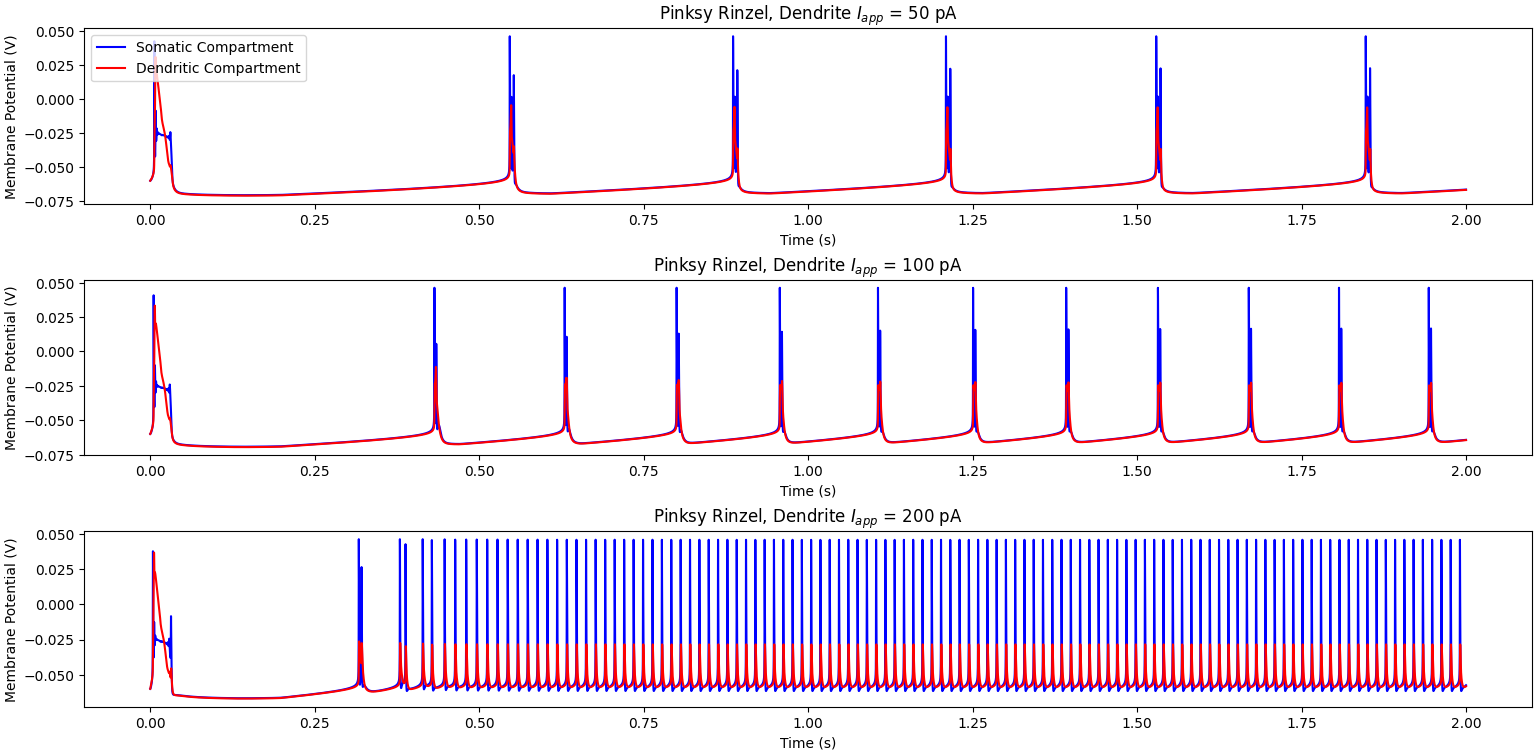
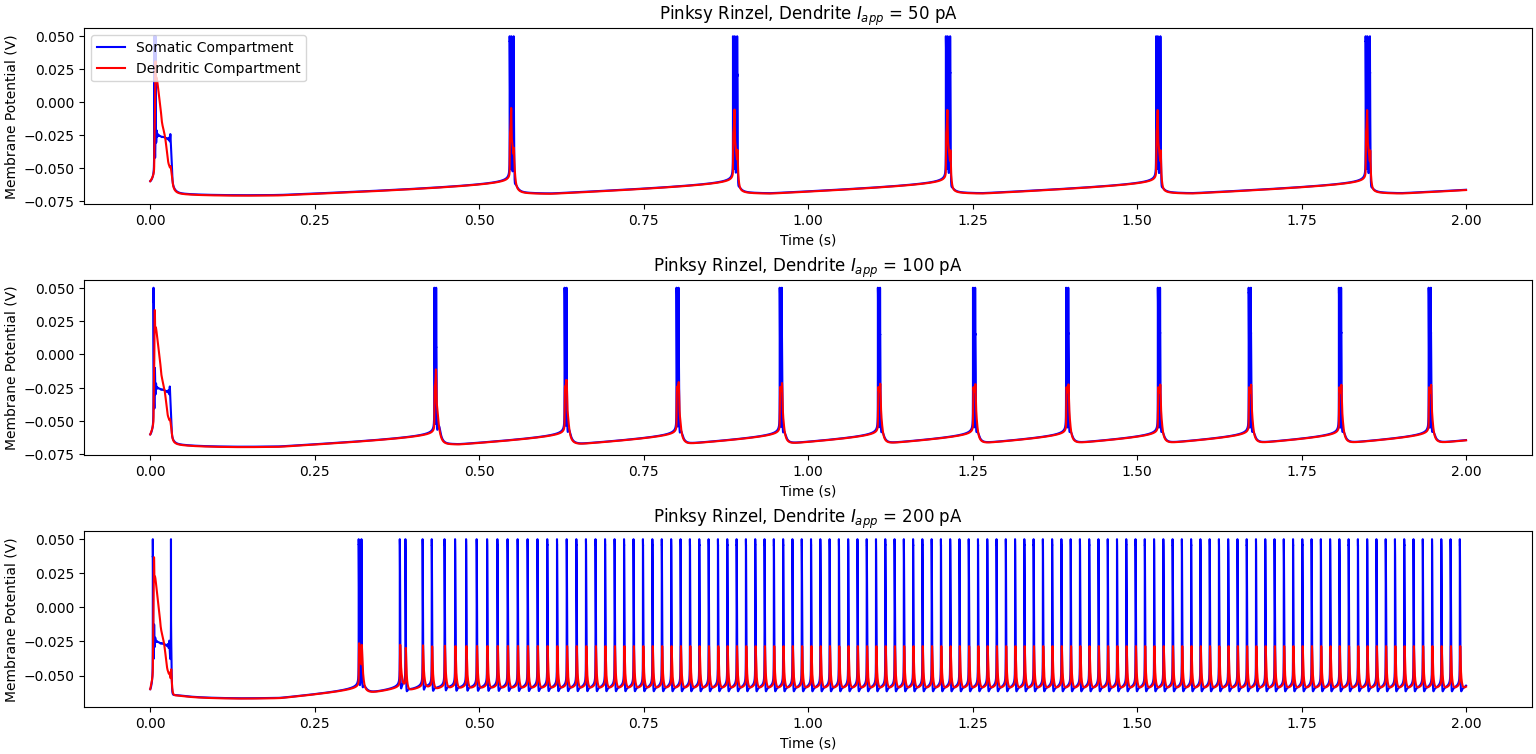
my stuff

diff --git a/Tutorial4.3/4.3.6_DendriteIapp.py b/Tutorial4.3/4.3.6_DendriteIapp.py
@@ -46,6 +46,8 @@ def PR(Isoma=0, Idendrite=0, Glink = 50e-9):
     mKAHP = np.ones(len(time)) * 0
     Ca = np.ones(len(time)) * 0 # concentration
 
+    spiketimes = []
+
     ### rate constants for gating variables ###
     def alphaM(Vs):
         return (320*10**3*(Vs+0.0469)) / (1-math.exp(-250*(Vs+0.0469)))
@@ -122,36 +124,39 @@ def PR(Isoma=0, Idendrite=0, Glink = 50e-9):
         if Vs[i] < -30e-3:
             canSpike = True
         if Vs[i] > -10e-3 and canSpike:
-            print("spiked", time[i])
+            spiketimes.append(i)
             canSpike = False
     
+    for i in spiketimes:
+        Vs[i] = 50e-3
+
     return time, Vs, Vd
 
 plt.figure(layout = 'constrained')
 
-time, Vs, Vd = PR(Isoma=50e-12)
+time, Vs, Vd = PR(Idendrite =50e-12)
 plt.subplot(311)
 plt.plot(time, Vs, 'b-', label = "Somatic Compartment")
 plt.plot(time, Vd, 'r-',label = 'Dendritic Compartment')
 plt.ylabel('Membrane Potential (V)')
 plt.xlabel('Time (s)')
-plt.title("Pinksy Rinzel, Soma $I_{app}$ = 50 pA")
+plt.title("Pinksy Rinzel, Dendrite $I_{app}$ = 50 pA")
 plt.legend(loc = 'upper left')
 
-time, Vs, Vd = PR(Isoma = 100e-12)
+time, Vs, Vd = PR(Idendrite = 100e-12)
 plt.subplot(312)
 plt.plot(time, Vs, 'b-', label = "Somatic Compartment")
 plt.plot(time, Vd, 'r-',label = 'Dendritic Compartment')
 plt.ylabel('Membrane Potential (V)')
 plt.xlabel('Time (s)')
-plt.title("Pinksy Rinzel, Soma $I_{app}$ = 100 pA")
+plt.title("Pinksy Rinzel, Dendrite $I_{app}$ = 100 pA")
 
-time, Vs, Vd = PR(Isoma = 200e-12)
+time, Vs, Vd = PR(Idendrite = 200e-12)
 plt.subplot(313)
 plt.plot(time, Vs, 'b-', label = "Somatic Compartment")
 plt.plot(time, Vd, 'r-',label = 'Dendritic Compartment')
 plt.ylabel('Membrane Potential (V)')
 plt.xlabel('Time (s)')
-plt.title("Pinksy Rinzel, Soma $I_{app}$ = 200 pA")
+plt.title("Pinksy Rinzel, Dendrite $I_{app}$ = 200 pA")
 
 plt.show()

diff --git a/Tutorial4.3/4.3.6_SomaIApp.py b/Tutorial4.3/4.3.6_SomaIApp.py
@@ -46,6 +46,8 @@ def PR(Isoma=0, Idendrite=0, Glink = 50e-9):
     mKAHP = np.ones(len(time)) * 0
     Ca = np.ones(len(time)) * 0 # concentration
 
+    spiketimes = []
+
     ### rate constants for gating variables ###
     def alphaM(Vs):
         return (320*10**3*(Vs+0.0469)) / (1-math.exp(-250*(Vs+0.0469)))
@@ -122,9 +124,12 @@ def PR(Isoma=0, Idendrite=0, Glink = 50e-9):
         if Vs[i] < -30e-3:
             canSpike = True
         if Vs[i] > -10e-3 and canSpike:
-            print("spiked", time[i])
+            spiketimes.append(i)
             canSpike = False
     
+    for i in spiketimes:
+        Vs[i] = 50e-3
+
     return time, Vs, Vd
 
 plt.figure(layout = 'constrained')
